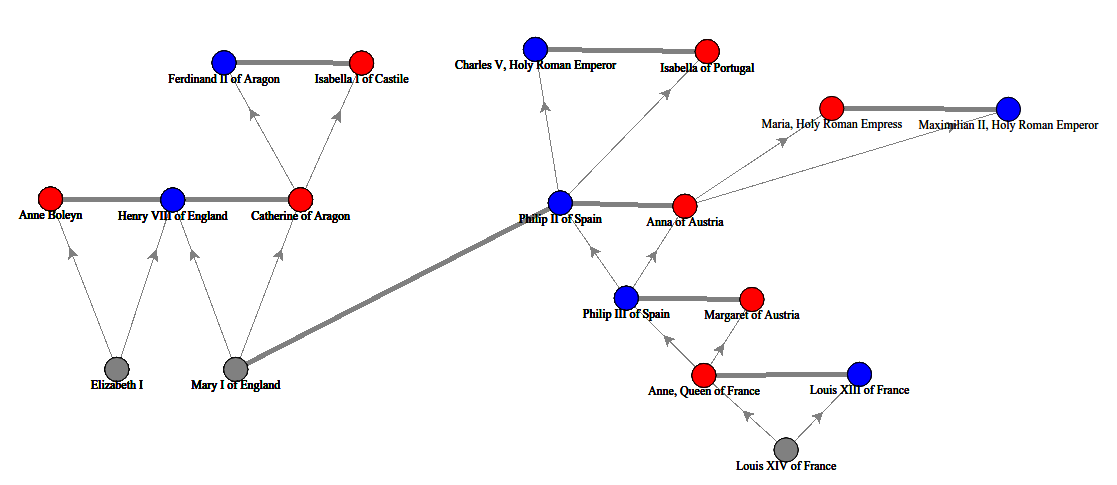
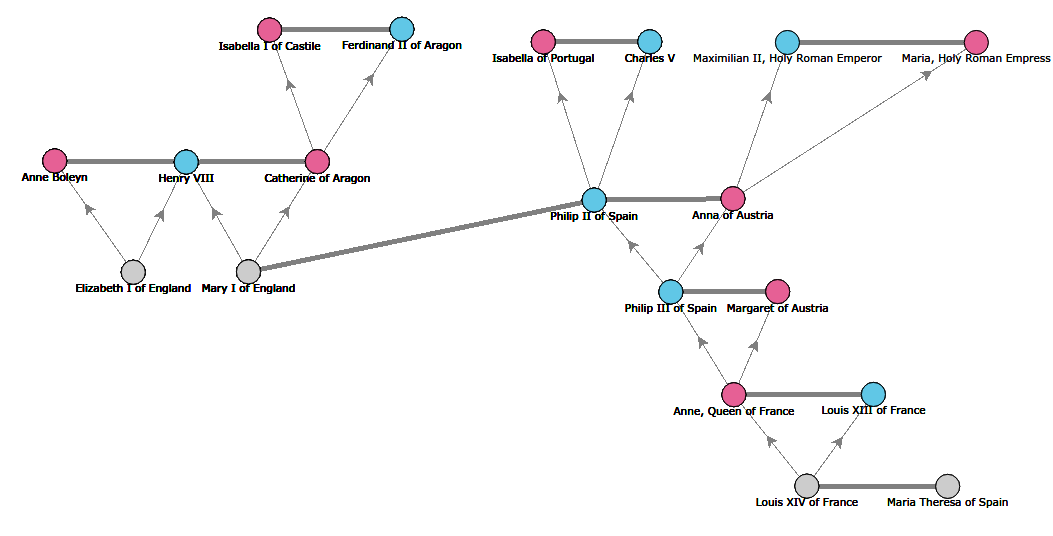
Layout fine tuning

diff --git a/history-visual/public_html/css/style.css b/history-visual/public_html/css/style.css
@@ -1,5 +1,7 @@
 html {
   overflow-y: scroll; /* prevents page repositioning when a scrollbar is present */
+  font-family: Verdana, Geneva, sans-serif;
+  font-size: 14px;
 }
 
 .cf:before, .cf:after {
@@ -14,8 +16,8 @@ html {
 }
 
 .shadow {
-    border: 1px solid gray;
-    box-shadow: 10px 10px 5px #888888;
+    /*border: 1px solid gray;*/
+    box-shadow: 10px 10px 20px #cccccc;
 }
 
 .center-global {
@@ -35,13 +37,22 @@ h2 {
     font-size: 100%;
 }
 
+a {
+  text-decoration: none;
+  color: #60c7e6;
+}
+
 
 nav,header,footer,article { display:block; }
 
 #nav {
-    background:#c00;
-    padding:10px;
-    overflow:hidden; }
+    float: right;
+    margin-right: 25%;
+    /*background:#c00;*/
+    /*padding:10px;*/
+    padding-top: 40px;
+    /*overflow:hidden;*/ 
+}
 
 #nav ul {
     list-style:none;
@@ -52,8 +63,19 @@ nav,header,footer,article { display:block; }
     float:left; }
     
 #nav li a {
-    color:#fff;
-    padding:0 10px; }
+    font-size: 16pt;
+    text-transform: uppercase;
+    padding:0 10px;
+    -webkit-transition: color .4s ease-out;
+    -moz-transition: color .4s ease-out;
+    o-transition: color .4s ease-out;
+    transition: color .4s ease-out;
+}
+
+nav li a:hover {
+     text-decoration: none;
+     color: #333333;
+}
     
 /*@media only screen and (max-width:480px) {
 body {
@@ -67,42 +89,58 @@ body {
 
 html, body {
     height: 90%;
+    background-image: url("../data/l3po_bg.png")
 }
 
 .svgcontainer {
     width: 75%;
-    height: 100%;
+    height: 90%;
     float: left;
     padding: 5px;
 }
 
 .sidebar {
-    width: 20%;
-    height: 100%;
+    width: 22%;
+    height: 90%;
     float: right;
     padding: 5px;
 }
 
 svg {
     width: 100%;
-    height: 100%;
+    height: 96%;
+    background-color: white;
+    border-radius: 20px;
 }
 
 #controls {
     width: 100%;
-    height: 6%;
-    padding: 5px;
-    margin: 5px 0px 30px 0px;
+    height: 3%;
+    /*padding: 5px;*/
+    margin: 0px 0px 15px 0px;
+    
+    /*-webkit-box-sizing: border-box;*/
+    /*-moz-box-sizing: border-box;*/
+    /*box-sizing: border-box;*/
+    
+    /*background-color: white;*/
+    /*border-radius: 5px;*/
+}
+
+#data {
+    width: 100%;
+    height: 100%;
+    overflow: auto;
+    background-color: white;
+    border-radius: 20px;
+    padding: 10px;
     
     -webkit-box-sizing: border-box;
     -moz-box-sizing: border-box;
     box-sizing: border-box;
 }
 
-#data {
-    width: 100%;
-    height: 70%;
-    overflow: scroll;
+#data-inner tr td {
 }
 
 #modal {
@@ -114,15 +152,70 @@ svg {
 }
 
 .wikiPageInput {
-    width: 80%;
+    width: 93%;
+    /*height: 70%;*/
+    float: left;
+    border: 0;
+    margin: 1px;
+    padding: 2px;
 }
+
+.wikiPageInput:focus {
+    outline: 0;
+}
+
+#go {
+    float: left;
+    width: 4%;
+    margin: 0px 0px 0px 2px;
+    /*margin: 3% 2% 3% 0%;*/
+}
+
 
 #about {
     width: 100%;
+    background-color: white;
+    
+    -webkit-box-sizing: border-box;
+    -moz-box-sizing: border-box;
+    box-sizing: border-box;
+    
+    padding: 20px;
+    border-radius: 20px;
+}
+
+#admin {
+    width: 100%;
+    background-color: white;
+    
+    -webkit-box-sizing: border-box;
+    -moz-box-sizing: border-box;
+    box-sizing: border-box;
+    
+    padding: 20px;
+    border-radius: 20px;
 }
 
 textarea {
     overflow: scroll;
+}
+
+#footer {
+    color: #333333;
+}
+
+textarea {
+    resize: both;
+}
+
+#cypherQuery {
+    width: 50em;
+    height: 4em;
+}
+
+#cypherResult {
+    width: 90em;
+    height: 30em;
 }
 
 /*
@@ -170,7 +263,7 @@ path.domain {
     color: white;
 }
 .menu > li:hover {
-    background-color: lightblue;
+    background-color: #60c7e6;
     color: black;
 }
 

diff --git a/history-visual/public_html/index.html b/history-visual/public_html/index.html
@@ -28,13 +28,13 @@
 
     <div class="center-global cf">
         <header id="header" role="banner">
-            <h1>The LifeLong Learning Portal (L3-PO)</h1>
-
+            <img src="data/l3po_logo.png"/>
+            
             <nav id="nav" role="navigation">
                 <ul>
                     <li><a href="#" id="W1">Wiking</a></li>
                     <li><a href="#" id="W2">About</a></li>
-                    <li><a href="#" id="W3">Admin</a></li>
+                    <li><a href="#" id="W3">Cypher</a></li>
                 </ul>
             </nav>
         </header>
@@ -43,14 +43,14 @@
     <div id="wikingDiv" class="center-global cf tab">
 
         <div class="svgcontainer">
+            <div id="controls">
+                <input id="wikiPage" type="text" class="wikiPageInput shadow"/>
+                <button id="go" class="shadow">Go</button>
+            </div>
             <svg class="shadow"/>
         </div>
 
         <aside class="sidebar">
-            <div id="controls" class="shadow">
-                <input id="wikiPage" type="text" class="wikiPageInput"/>
-                <button id="go">Go</button>
-            </div>
             <div id="data" class="shadow"></div>
         </aside>
 
@@ -216,9 +216,9 @@
         <a href="mailto:ivan.brencsics@gmail.com">ivan.brencsics@gmail.com</a>
     </article>
     
-    <div id="admin" class="center-global cf tab">
-        <div class="admincontainer shadow">
-            <textarea id="cypherQuery" rows="4" cols="100">match (p:PERSON) return count(p)</textarea>
+    <div id="admin" class="center-global cf shadow tab">
+        <div class="admincontainer">
+            <textarea id="cypherQuery">match (p:PERSON) return count(p)</textarea>
             <button id="cypherSubmit">Go</button>
             <textarea id="cypherResult" rows="30" cols="180"></textarea>
         </div>

diff --git a/history-visual/public_html/js/wiki.js b/history-visual/public_html/js/wiki.js
@@ -28,7 +28,6 @@ var wiki = {
         $("#controls input").autocomplete({
             source: function (request, response) {
                 $.get(wiki.baseUrl() + "/person/suggestion/" + request.term, {
-                    //query: request.term
                 }, function (data) {
                     response(data);
                 });
@@ -36,6 +35,8 @@ var wiki = {
             minLength: 3,
             delay: 500
         });
+        
+        $("#controls input").focusin(function() {this.select();})
         
         $("#cypherSubmit").click(function() {
             console.log($("#cypherQuery").val());
@@ -48,7 +49,7 @@ var wiki = {
                 .on("click", wiki.buttonClick);
         
         d3.text("wiki-modal-details.html", function(data) {
-            d3.select("#data").append("div").attr("id", "details").html(data);
+            d3.select("#data").append("div").attr("id", "data-inner").html(data);
         });
         
         d3.text("node-contextmenu.html", function(data) {
@@ -288,9 +289,9 @@ var wiki = {
                     .attr("r", 12)
                     .style("fill", function(d) {
                         gender = d.gender;
-                        if (gender == "MALE") return "BLUE";
-                        else if (gender == "FEMALE") return "RED";
-                        else return "GREY";
+                        if (gender == "MALE") return "#60c7e6";
+                        else if (gender == "FEMALE") return "#e66095";
+                        else return "#cccccc";
                     })
                     .style("stroke", "black")
                     .style("stroke-width", "1px")
